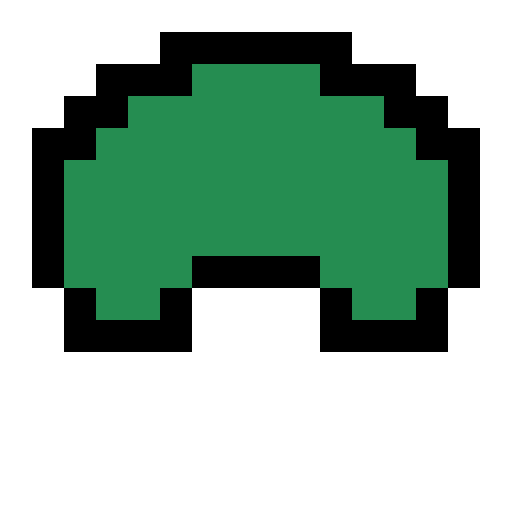
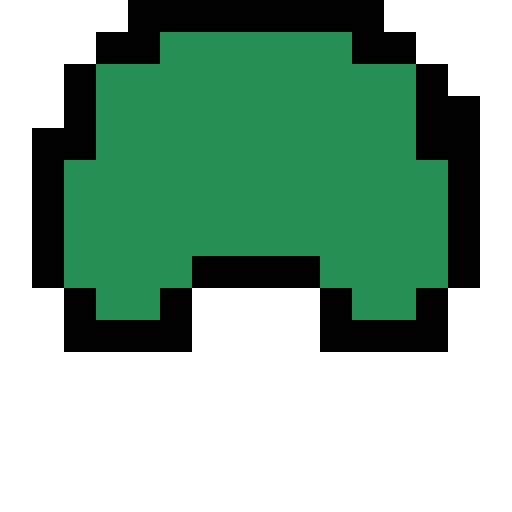
updated monster to show slimes instead

Changed region(s): [[0.125, 0.0, 0.875, 0.25], [0.875, 0.1875, 0.9375, 0.25]]

diff --git a/src/main/java/org/project/Player.java b/src/main/java/org/project/Player.java
@@ -1,9 +1,10 @@
 package org.project;
 
 import javax.imageio.ImageIO;
+import java.awt.*;
+import java.awt.image.BufferedImage;
 import java.io.FileInputStream;
 import java.io.IOException;
-import java.awt.Rectangle;
 
 import static org.project.Entity.directions.*;
 
@@ -95,6 +96,47 @@ public class Player extends Entity {
       System.out.println("Image can't be read");
       e.printStackTrace();
     }
+  }
+
+  @Override
+  public void draw(Graphics2D g2) {
+    BufferedImage image = null;
+    int screenX = worldX - gp.player.worldX + gp.player.screenX;
+    int screenY = worldY - gp.player.worldY + gp.player.screenY;
+
+    if (worldX + GamePanel.TILE_SIZE > gp.player.worldX - gp.player.screenX &&
+        worldX - GamePanel.TILE_SIZE < gp.player.worldX + gp.player.screenX &&
+        worldY + GamePanel.TILE_SIZE > gp.player.worldY - gp.player.screenY &&
+        worldY - GamePanel.TILE_SIZE < gp.player.worldY + gp.player.screenY) {
+      switch(direction) {
+        case UP:
+          if (spriteNum == 1) {image = upR;}
+          if (spriteNum == 2) {image = upL;}
+          break;
+        case DOWN:
+          if (spriteNum == 1) {image = downR;}
+          if (spriteNum == 2) {image = downL;}
+          break;
+        case LEFT:
+          if (spriteNum == 1) {image = leftR;}
+          if (spriteNum == 2) {image = leftL;}
+          break;
+        case RIGHT:
+          if (spriteNum == 1) {image = rightR;}
+          if (spriteNum == 2) {image = rightL;}
+          break;
+        default:
+          break;
+      }
+    }
+
+    if (invincible == true) {
+      g2.setComposite(AlphaComposite.getInstance(AlphaComposite.SRC_OVER, 0.3f));
+    }
+    g2.drawImage(image, screenX, screenY, GamePanel.TILE_SIZE, GamePanel.TILE_SIZE, null);
+
+    // Reset Opacity
+    g2.setComposite(AlphaComposite.getInstance(AlphaComposite.SRC_OVER, 1f));
   }
 
   public void updateStatus(char stat) {

diff --git a/src/main/java/org/project/Monster.java b/src/main/java/org/project/Monster.java
@@ -25,7 +25,7 @@ public class Monster extends Entity {
   public Monster(GamePanel gp, int posX, int posY) {
     super(gp);
     type = 2;
-    speed = 1;
+    speed = 2;
     hitbox = new Rectangle();
     hitbox.x = 8;
     hitbox.y = 8;
@@ -41,14 +41,14 @@ public class Monster extends Entity {
 
   public void getImage() {
     try {
-      downR = ImageIO.read(new FileInputStream("assets/monsters/beast_down_right.png"));
-      downL = ImageIO.read(new FileInputStream("assets/monsters/beast_down_left.png"));
-      upR = ImageIO.read(new FileInputStream("assets/monsters/beast_up_right.png"));
-      upL = ImageIO.read(new FileInputStream("assets/monsters/beast_up_left.png"));
-      leftR = ImageIO.read(new FileInputStream("assets/monsters/beast_left_right.png"));
-      leftL = ImageIO.read(new FileInputStream("assets/monsters/beast_left_left.png"));
-      rightR = ImageIO.read(new FileInputStream("assets/monsters/beast_right_right.png"));
-      rightL = ImageIO.read(new FileInputStream("assets/monsters/beast_right_left.png"));
+      downR = ImageIO.read(new FileInputStream("assets/monsters/Slime_Contract.png"));
+      downL = ImageIO.read(new FileInputStream("assets/monsters/Slime_Relaxed.png"));
+      upR = ImageIO.read(new FileInputStream("assets/monsters/Slime_Contract.png"));
+      upL = ImageIO.read(new FileInputStream("assets/monsters/Slime_Relaxed.png"));
+      leftR = ImageIO.read(new FileInputStream("assets/monsters/Slime_Contract.png"));
+      leftL = ImageIO.read(new FileInputStream("assets/monsters/Slime_Relaxed.png"));
+      rightR = ImageIO.read(new FileInputStream("assets/monsters/Slime_Contract.png"));
+      rightL = ImageIO.read(new FileInputStream("assets/monsters/Slime_Relaxed.png"));
     } catch (IOException e) {
       System.out.println("Image can't be read ...");
       e.printStackTrace();

diff --git a/src/main/java/org/project/CollisionDetector.java b/src/main/java/org/project/CollisionDetector.java
@@ -204,7 +204,7 @@ public class CollisionDetector {
     return index;
   }
 
-  public boolean checkPlayerCollide( Entity entity) {
+  public boolean checkPlayerCollide(Entity entity) {
 
     boolean contactPlayer = false;
 
@@ -218,33 +218,19 @@ public class CollisionDetector {
 
     if (entity.direction == UP) {
       entity.hitbox.y -= entity.speed;
-      if (entity.hitbox.intersects(gp.player.hitbox)) {
-        System.out.println("up collision");
-        entity.collision = true;
-        contactPlayer = true;
-      }
     } else if (entity.direction == DOWN) {
       entity.hitbox.y += entity.speed;
-      if (entity.hitbox.intersects(gp.player.hitbox)) {
-        System.out.println("down collision");
-        entity.collision = true;
-        contactPlayer = true;
-      }
     } else if (entity.direction == LEFT) {
       entity.hitbox.x -= entity.speed;
-      if (entity.hitbox.intersects(gp.player.hitbox)) {
-        System.out.println("left collision");
-        entity.collision = true;
-        contactPlayer = true;
-      }
     } else if (entity.direction == RIGHT) {
       entity.hitbox.x += entity.speed;
-      if (entity.hitbox.intersects(gp.player.hitbox)) {
-        System.out.println("right collision");
-        entity.collision = true;
-        contactPlayer = true;
-      }
     }
+
+    if (entity.hitbox.intersects(gp.player.hitbox)) {
+      entity.collision = true;
+      contactPlayer = true;
+    }
+
     entity.hitbox.x = entity.hitboxDefaultX;
     entity.hitbox.y = entity.hitboxDefaultY;
 

diff --git a/src/main/java/org/project/Entity.java b/src/main/java/org/project/Entity.java
@@ -96,7 +96,7 @@ public abstract class Entity implements Positionable {
     }
     
     spriteCounter++;
-    if(spriteCounter > 14) {
+    if(spriteCounter > 20) {
       if (spriteNum == 1) {
         spriteNum = 2;
       } else if (spriteNum == 2) {
